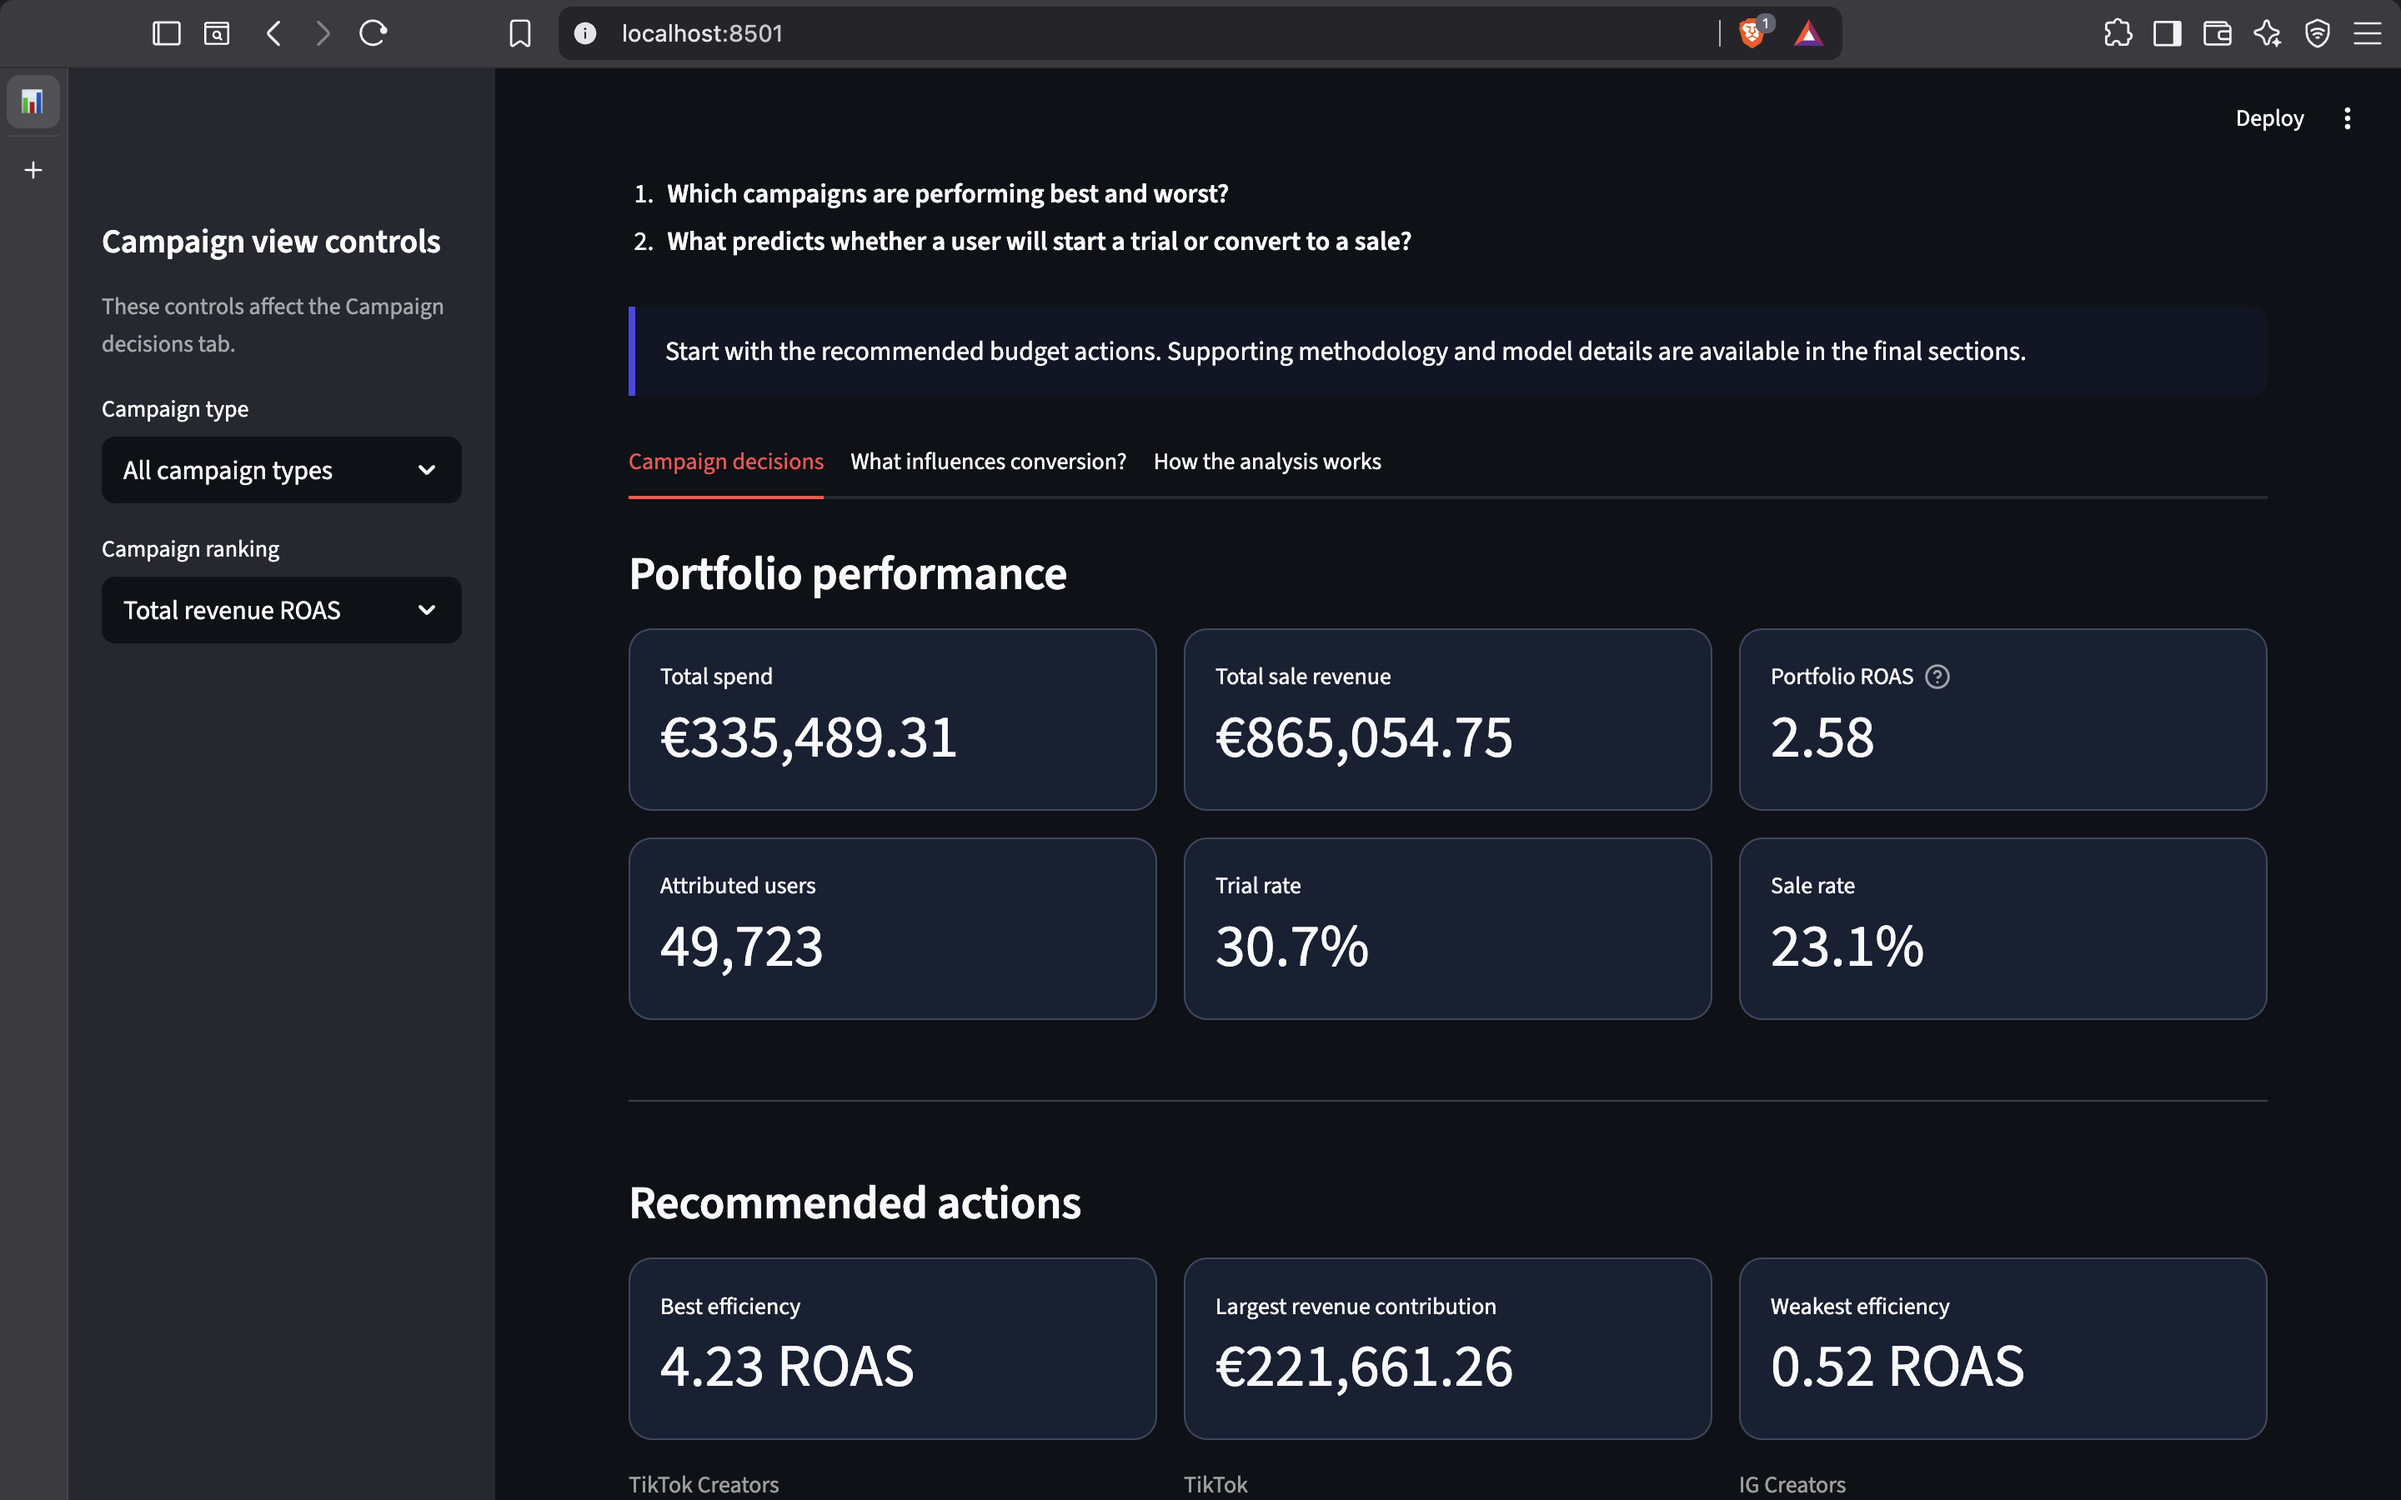
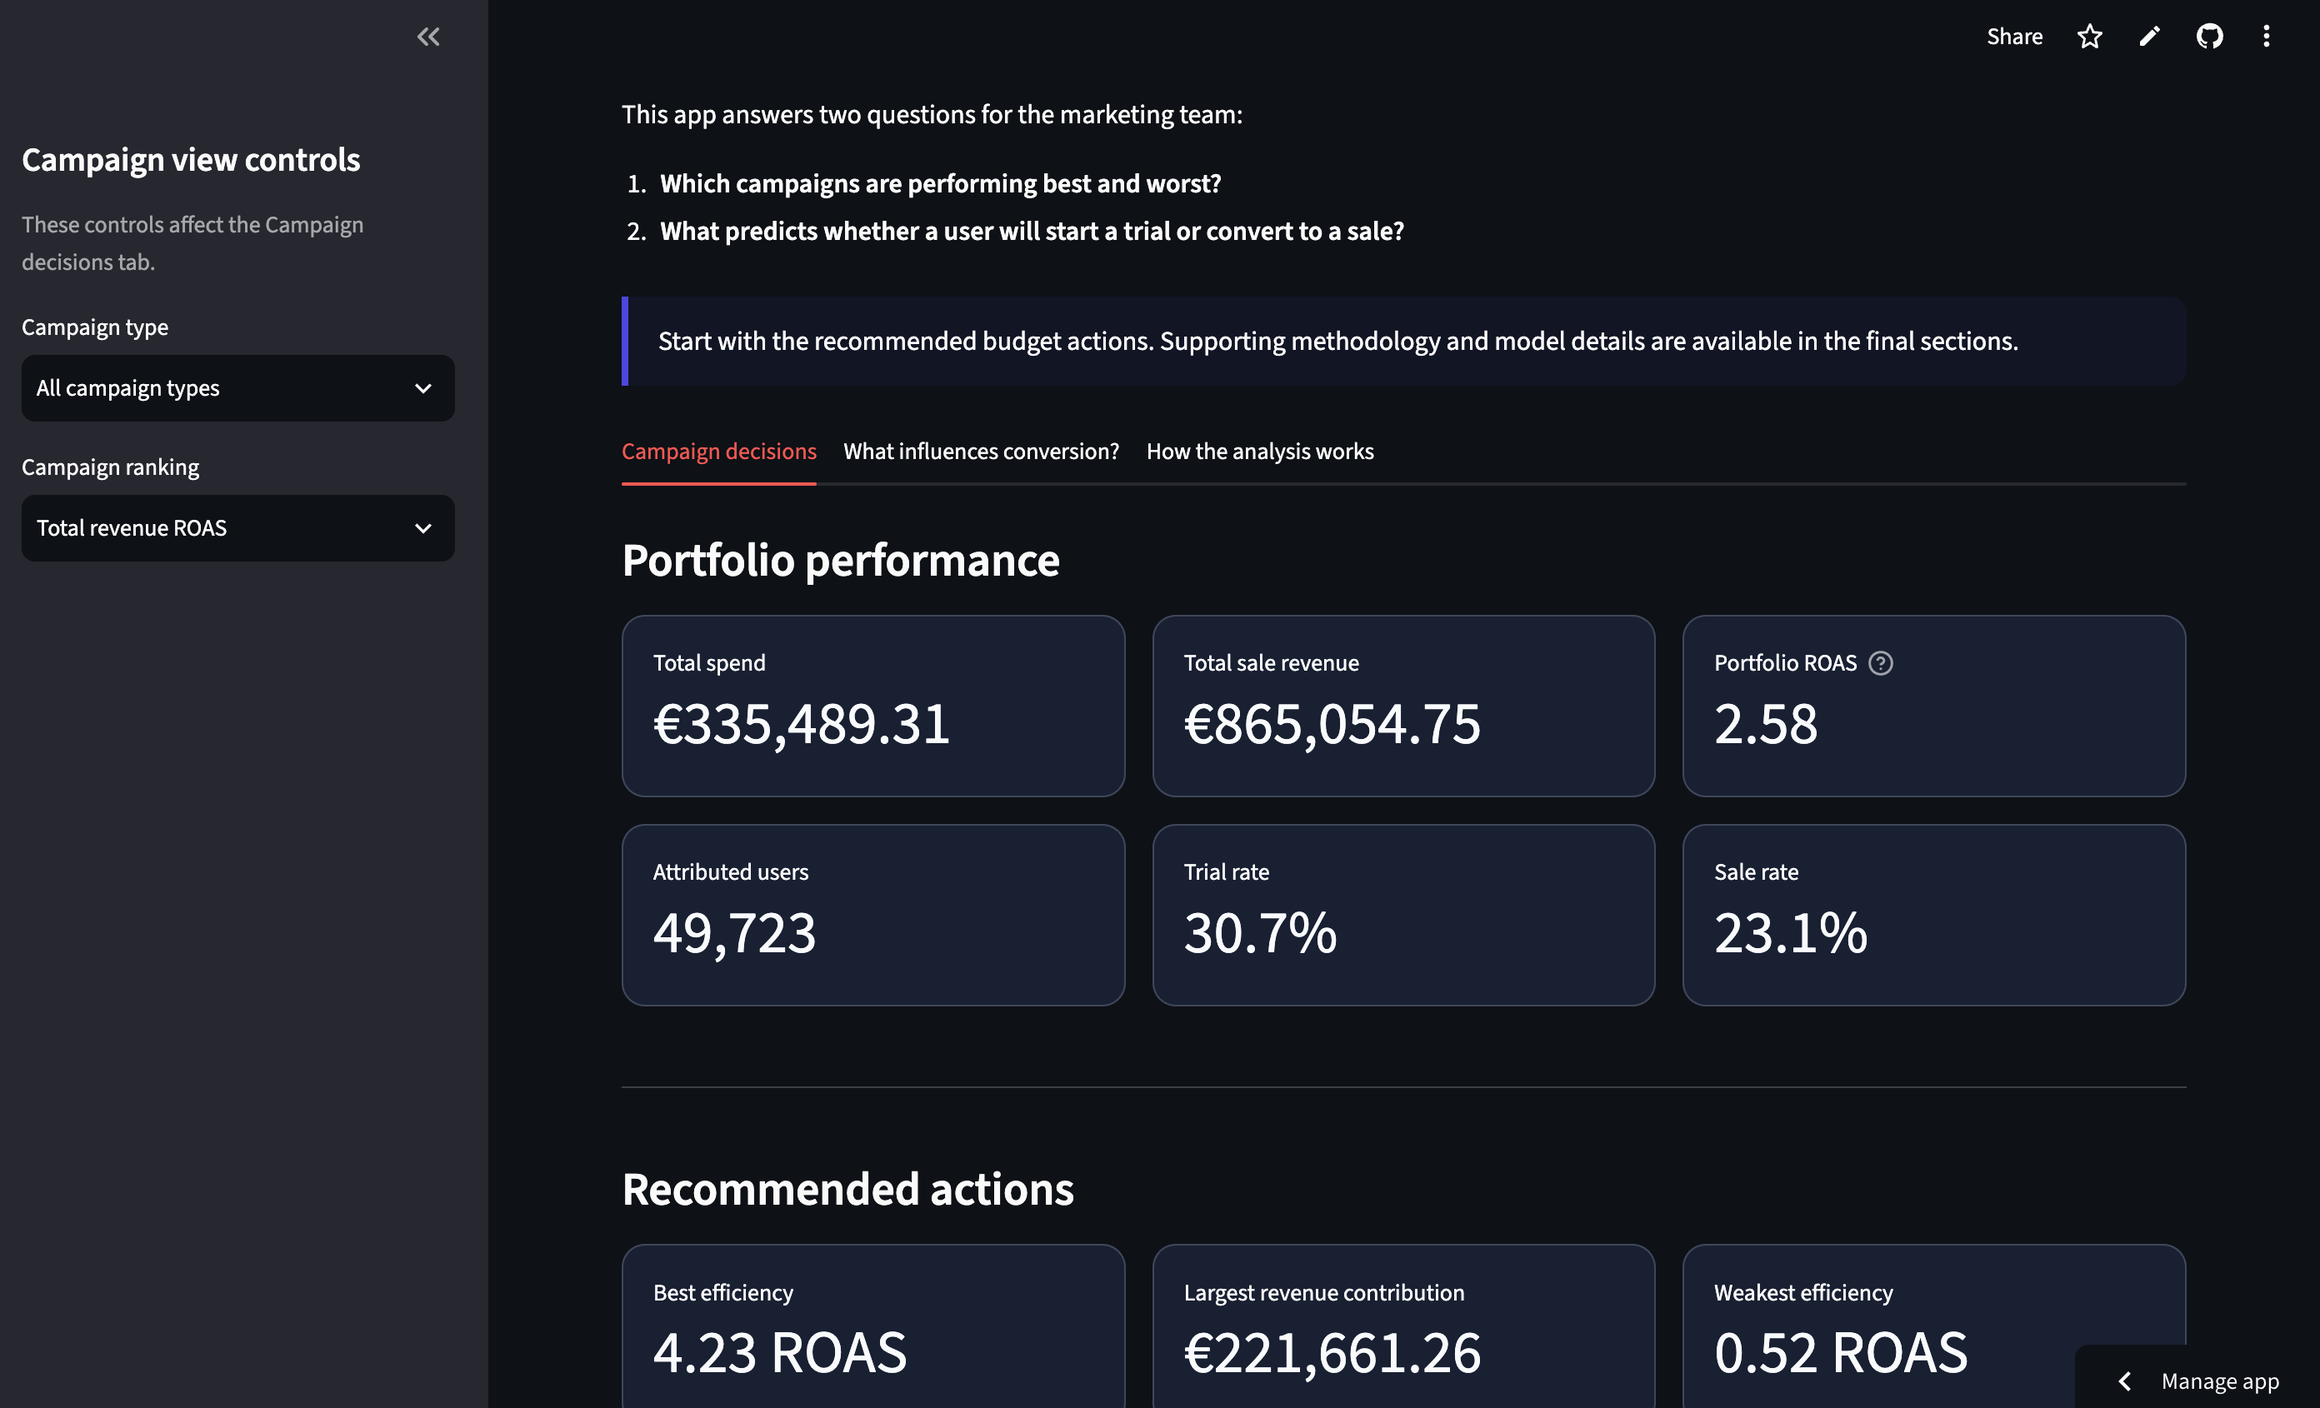
docs: refresh dashboard image and add portfolio card source

diff --git a/assets/portfolio-card.html b/assets/portfolio-card.html
@@ -1,0 +1,220 @@
+<!DOCTYPE html>
+<html lang="en">
+<head>
+  <meta charset="UTF-8" />
+  <meta name="viewport" content="width=device-width, initial-scale=1.0" />
+  <title>Subscription Marketing Analytics Card</title>
+  <style>
+    :root {
+      --bg: #06111f;
+      --panel: #0f1d33;
+      --panel-2: #13233b;
+      --text: #f4f7fb;
+      --muted: #b8c3d6;
+      --accent: #4c6fff;
+      --border: rgba(255,255,255,0.08);
+      --shadow: 0 24px 60px rgba(0, 0, 0, 0.35);
+    }
+
+    * {
+      box-sizing: border-box;
+      margin: 0;
+      padding: 0;
+    }
+
+    body {
+      width: 1280px;
+      height: 640px;
+      overflow: hidden;
+      background:
+        radial-gradient(circle at top left, rgba(76,111,255,0.20), transparent 30%),
+        linear-gradient(135deg, #050d18 0%, #081324 100%);
+      color: var(--text);
+      font-family: -apple-system, BlinkMacSystemFont, "Segoe UI", Roboto, Inter, Helvetica, Arial, sans-serif;
+    }
+
+    .card {
+      width: 1280px;
+      height: 640px;
+      padding: 48px 56px;
+      display: grid;
+      grid-template-columns: 1.05fr 1.15fr;
+      gap: 36px;
+      align-items: center;
+    }
+
+    .left {
+      display: flex;
+      flex-direction: column;
+      justify-content: center;
+      height: 100%;
+    }
+
+    .eyebrow {
+      display: inline-block;
+      width: fit-content;
+      font-size: 15px;
+      font-weight: 700;
+      letter-spacing: 0.08em;
+      text-transform: uppercase;
+      color: #9ab0ff;
+      background: rgba(76,111,255,0.12);
+      border: 1px solid rgba(76,111,255,0.25);
+      border-radius: 999px;
+      padding: 8px 14px;
+      margin-bottom: 22px;
+    }
+
+    h1 {
+      font-size: 54px;
+      line-height: 1.05;
+      letter-spacing: -0.03em;
+      margin-bottom: 22px;
+      max-width: 560px;
+    }
+
+    .subtitle {
+      font-size: 23px;
+      line-height: 1.45;
+      color: var(--muted);
+      max-width: 560px;
+      margin-bottom: 28px;
+    }
+
+    .bullets {
+      display: grid;
+      gap: 12px;
+      margin-bottom: 28px;
+    }
+
+    .bullet {
+      font-size: 18px;
+      color: #dce5f3;
+      display: flex;
+      align-items: flex-start;
+      gap: 10px;
+    }
+
+    .dot {
+      width: 10px;
+      height: 10px;
+      border-radius: 50%;
+      background: var(--accent);
+      margin-top: 9px;
+      flex: 0 0 auto;
+    }
+
+    .stack {
+      display: flex;
+      flex-wrap: wrap;
+      gap: 10px;
+    }
+
+    .tag {
+      font-size: 15px;
+      font-weight: 600;
+      color: #dbe7ff;
+      background: rgba(255,255,255,0.06);
+      border: 1px solid var(--border);
+      border-radius: 999px;
+      padding: 9px 14px;
+    }
+
+    .right {
+      display: flex;
+      justify-content: center;
+      align-items: center;
+    }
+
+    .shot-frame {
+      width: 100%;
+      max-width: 650px;
+      background: linear-gradient(180deg, #152540 0%, #0d1a2d 100%);
+      border: 1px solid var(--border);
+      border-radius: 24px;
+      box-shadow: var(--shadow);
+      padding: 14px;
+    }
+
+    .browser-bar {
+      height: 28px;
+      display: flex;
+      align-items: center;
+      gap: 8px;
+      padding: 0 10px;
+      margin-bottom: 12px;
+      border-radius: 14px;
+      background: rgba(255,255,255,0.06);
+    }
+
+    .browser-dot {
+      width: 10px;
+      height: 10px;
+      border-radius: 50%;
+      background: rgba(255,255,255,0.35);
+    }
+
+    .screenshot-wrap {
+      border-radius: 16px;
+      overflow: hidden;
+      border: 1px solid rgba(255,255,255,0.06);
+      background: #0b1322;
+    }
+
+    .screenshot-wrap img {
+      width: 100%;
+      display: block;
+    }
+
+    .footer-note {
+      position: absolute;
+      bottom: 24px;
+      right: 40px;
+      font-size: 13px;
+      color: rgba(255,255,255,0.45);
+      letter-spacing: 0.03em;
+    }
+  </style>
+</head>
+<body>
+  <div class="card">
+    <div class="left">
+      <div class="eyebrow">Portfolio Project</div>
+      <h1>Subscription Marketing Analytics</h1>
+      <div class="subtitle">
+        End-to-end analytics workflow that transforms raw acquisition and user-event data into campaign decisions, conversion insights, and a decision-focused dashboard.
+      </div>
+
+      <div class="bullets">
+        <div class="bullet"><span class="dot"></span><span>Evaluated campaign efficiency and revenue contribution</span></div>
+        <div class="bullet"><span class="dot"></span><span>Built tested dbt models in DuckDB</span></div>
+        <div class="bullet"><span class="dot"></span><span>Used machine learning to explain trial and sale conversion</span></div>
+      </div>
+
+      <div class="stack">
+        <div class="tag">dbt</div>
+        <div class="tag">DuckDB</div>
+        <div class="tag">Python</div>
+        <div class="tag">scikit-learn</div>
+        <div class="tag">Streamlit</div>
+        <div class="tag">Marketing Analytics</div>
+      </div>
+    </div>
+
+    <div class="right">
+      <div class="shot-frame">
+        <div class="browser-bar">
+          <div class="browser-dot"></div>
+          <div class="browser-dot"></div>
+          <div class="browser-dot"></div>
+        </div>
+        <div class="screenshot-wrap">
+          <img src="./campaign-dashboard.png" alt="Dashboard preview" />
+        </div>
+      </div>
+    </div>
+  </div>
+
+  <div class="footer-note">Sanitized portfolio version, raw source data excluded</div>
+</body>
+</html>
